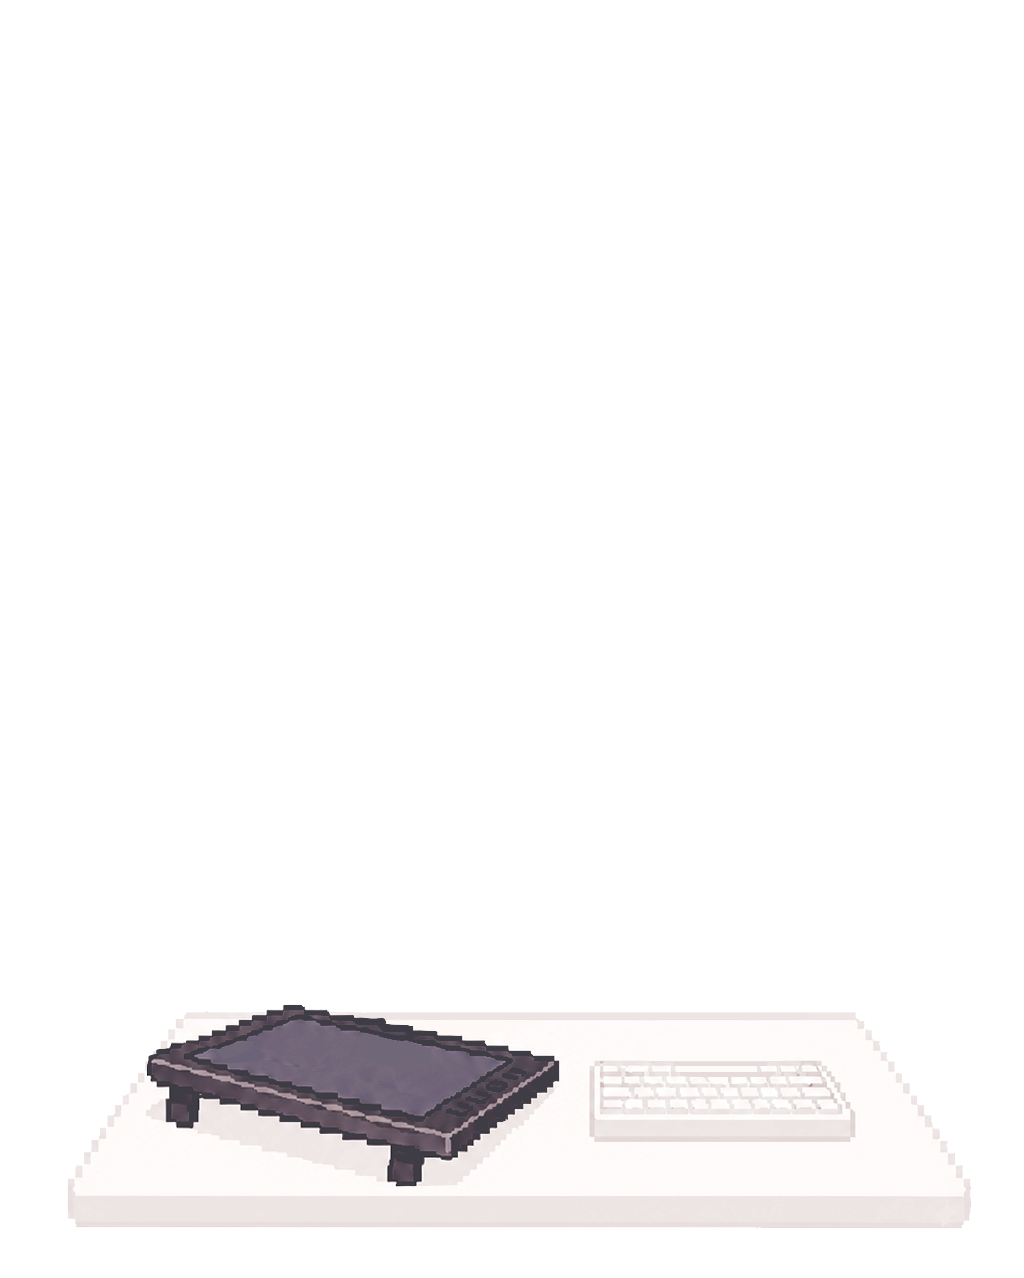
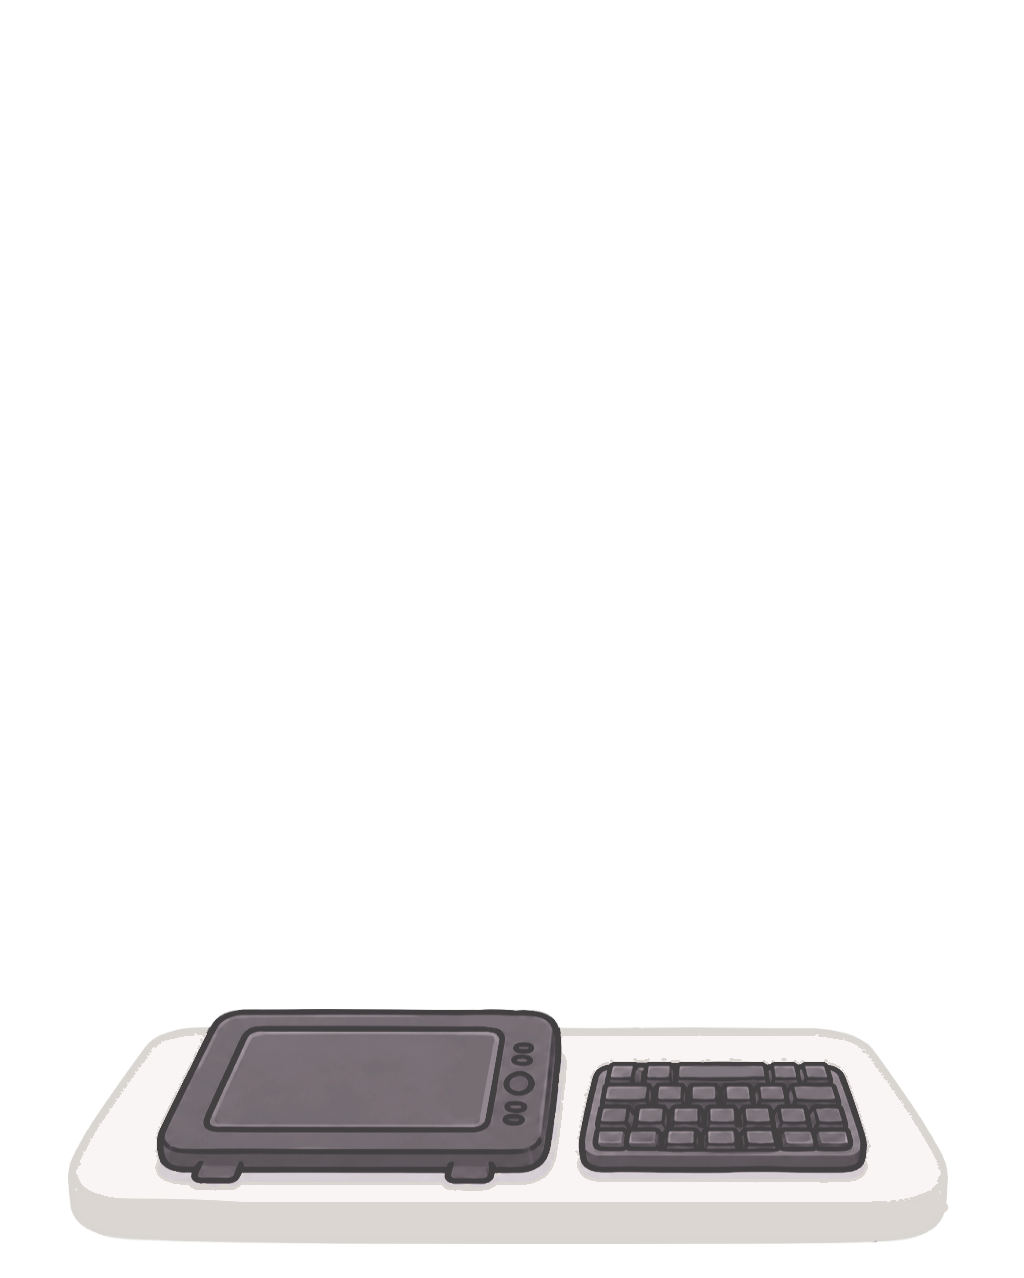
update v1784929106

Changed region(s): [[0.0938, 0.7629, 0.9688, 0.9765], [0.0625, 0.885, 0.0938, 0.946]]

diff --git a/mascot.py b/mascot.py
@@ -1747,6 +1747,9 @@ class Mascot:
                      "strokes": 0, "best": 0.0, "_run": 0.0,
                      "first": 0.0, "last": 0.0}
 
+        self.prop_name = None        # 이번 실행에 뽑힌 소품 (_load_parts가 채움)
+        self.prop_dir = self.parts_dir   # 소품 PNG를 읽을 폴더
+        self._prop_layout = self.layout  # 소품 좌표가 든 layout
         self._load_parts()
 
         # ── 상태 ──────────────────────────────────────────────────────────
@@ -1928,6 +1931,58 @@ class Mascot:
         holes = pad.point(lambda v: 255 if v == 0 else 0).crop((1, 1, w + 1, h + 1))
         return ImageChops.lighter(solid, holes)
 
+    @staticmethod
+    def _props_in(layout, folder):
+        """layout과 실제 PNG가 둘 다 있는 소품 이름들 (자동업데이트 섞임 대비)."""
+        return sorted(n for n in layout
+                      if n.startswith("prop") and n != "prop"
+                      and os.path.exists(os.path.join(folder, f"{n}.png")))
+
+    def _pick_prop(self):
+        """이번 실행에 쓸 소품 하나를 고른다 (없으면 None).
+
+        같은 게 연달아 나오지 않도록, 한 바퀴 다 돌 때까지 쓴 것을 빼고
+        고른다. 다 쓰면 초기화하되 직전 것만 제외해 연속 중복을 막는다.
+        기록은 상태 폴더에 남겨 자동 업데이트로 지워지지 않게 한다.
+        """
+        # 패션 슬롯에 소품이 없으면 기본 폴더 것을 쓴다 — 소품은 얼굴 위
+        # 덮개라 슬롯(옷)이 바뀌어도 좌표가 같다.
+        self.prop_dir, src = self.parts_dir, self.layout
+        avail = self._props_in(self.layout, self.parts_dir)
+        if not avail and self.parts_dir != self.dir:
+            try:
+                with open(os.path.join(self.dir, "layout.json"),
+                          encoding="utf-8") as fp:
+                    base = json.load(fp)
+                hit = self._props_in(base, self.dir)
+            except Exception:
+                hit = []
+            if hit:
+                self.prop_dir, src, avail = self.dir, base, hit
+        if not avail:
+            return None
+        self._prop_layout = src
+        path = os.path.join(self.state_dir, ".props.json")
+        used, last = [], None
+        try:
+            with open(path, encoding="utf-8") as fp:
+                d = json.load(fp)
+            used = [str(x) for x in (d.get("used") or []) if x in avail]
+            last = d.get("last")
+        except Exception:
+            pass
+        pool = [n for n in avail if n not in used]
+        if not pool:                       # 한 바퀴 다 돎 — 직전 것만 빼고 재시작
+            used = []
+            pool = [n for n in avail if n != last] or avail
+        pick = random.choice(pool)
+        try:
+            with open(path, "w", encoding="utf-8") as fp:
+                json.dump({"used": used + [pick], "last": pick}, fp)
+        except Exception:
+            pass
+        return pick
+
     def _load_parts(self):
         s = self.s
 
@@ -1952,6 +2007,27 @@ class Mascot:
             if self.has[name]:
                 pil_cache[name] = load_pil(name)
                 self.im[name] = ImageTk.PhotoImage(pil_cache[name])
+
+        # 소품(prop1..N) — 켤 때마다 하나만 랜덤으로. 고른 것을 "prop"으로
+        # 이름 붙여 두면 overlays 순서대로 얼굴 위에 함께 그려진다.
+        self.has["prop"] = False
+        pick = self._pick_prop()
+        if pick:
+            self.layout["prop"] = self._prop_layout[pick]
+            im = Image.open(os.path.join(self.prop_dir,
+                                         f"{pick}.png")).convert("RGBA")
+            if s != 1.0:
+                im = im.resize((max(1, round(im.width * s)),
+                                max(1, round(im.height * s))), Image.LANCZOS)
+            pil_cache["prop"] = self._hard(im)
+            self.im["prop"] = ImageTk.PhotoImage(pil_cache["prop"])
+            self.has["prop"] = True
+            self.prop_name = pick
+            if "prop" not in (self.layout.get("overlays") or []):
+                # 슬롯 layout이 소품을 모르면(옷만 바꾼 슬롯) 머리카락 앞에 끼운다
+                ov = list(self.layout.get("overlays") or [])
+                ov.insert(ov.index("hair") if "hair" in ov else len(ov), "prop")
+                self.layout["overlays"] = ov
 
         # 타이머 카드 가로 중심 = 책상 내용의 중심 (캔버스 중심이 아니라)
         self.card_cx = self.W / 2